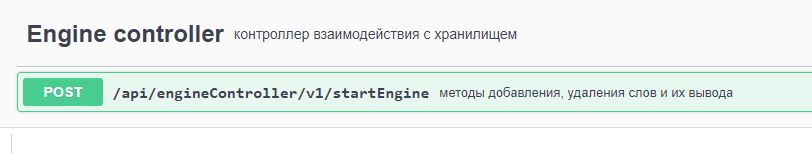
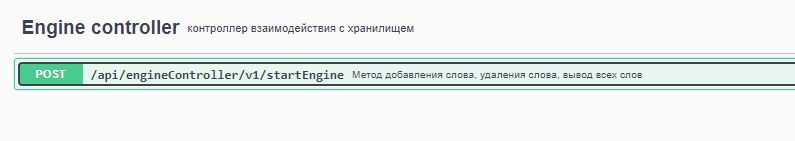
refactoring

Changed region(s): [[0.0, 0.3688, 1.0, 0.7376], [0.0302, 0.1418, 0.634, 0.3121], [0.0, 0.8227, 1.0, 0.8511]]

diff --git a/Glossary/src/main/java/com/zvezdilin/Glossary/api/EngineController.java b/Glossary/src/main/java/com/zvezdilin/Glossary/api/EngineController.java
@@ -2,7 +2,10 @@ package com.zvezdilin.Glossary.api;
 
 import com.zvezdilin.Glossary.engine.Engine;
 import io.swagger.v3.oas.annotations.Operation;
+import io.swagger.v3.oas.annotations.Parameter;
+import io.swagger.v3.oas.annotations.media.Schema;
 import io.swagger.v3.oas.annotations.tags.Tag;
+
 import org.springframework.web.bind.annotation.*;
 
 @Tag(name = "Engine controller", description = "контроллер взаимодействия с хранилищем")
@@ -17,13 +20,17 @@ public class EngineController {
     }
 
     @Operation(
-            summary = "метод добавления, удаления слов и их вывода в режиме одного окна"
+            summary = "Метод добавления слова, удаления слова, вывод всех слов "
     )
     @PostMapping("startEngine")
-    public String startEngine(@RequestBody String requestFromClientInJson) {
+    public String startEngine(@Parameter(description = "ADD - добавление слова, REMOVE - удаление слова, GETALLTASKS - вывод всех слов",
+            required=true, schema=@Schema(allowableValues={ "{\"target\":\"ADD\",\"word\":\"test\",\"translation\":\"тестовое слово для проверки\",\"locale\":\"EN\"}",
+            "{\"target\":\"REMOVE\",\"word\":\"test\"}", "{\"target\":\"GETALLTASKS\"}" })) @RequestBody String requestFromClientInJson) {
         String result = "";
         result = engine.start(requestFromClientInJson);
         myLogger.appendInfo("Attempt to start engine. Result: " + result);
         return result;
     }
 }
+
+

diff --git a/README.md b/README.md
@@ -1,4 +1,68 @@
 ## Добро пожаловать в репозиторий RESP-API - приложения "Glossary"
+Glossary
+- API version: 0.0.1
+  - Build date: 2022-07-21T12:56:34.978Z[GMT]
+
+  For more information, please visit [https://github.com/Witcher26](https://github.com/Witcher26)
+
+
+## Requirements
+
+Building the API client library requires:
+1. Java 1.7+
+2. Maven
+
+## Installation
+
+### Maven users
+
+Add this dependency to your project's POM:
+
+```xml
+<dependency>
+  <groupId>io.swagger</groupId>
+  <artifactId>swagger-java-client</artifactId>
+  <version>1.0.0</version>
+  <scope>compile</scope>
+</dependency>
+```
+Then manually install the following JARs:
+
+* `target/swagger-java-client-1.0.0.jar`
+* `target/lib/*.jar`
+
+## Documentation for API Endpoints
+
+All URIs are relative to *http://localhost:8080/api*
+
+Class | Method | HTTP request | Description
+------------ | ------------- | ------------- | -------------
+*AdminControllerApi* | [**createDataBase**](docs/AdminControllerApi.md#createDataBase) | **POST** /adminController/v1/createDataBase | создание базы данных
+*AdminControllerApi* | [**deleteDataBase**](docs/AdminControllerApi.md#deleteDataBase) | **DELETE** /adminController/v1/deleteDataBase | удаление базы данных
+*AdminControllerApi* | [**getIsDatabaseInfo**](docs/AdminControllerApi.md#getIsDatabaseInfo) | **GET** /adminController/v1/getIsDatabaseInfo | получение информации о текущей базе данных
+*AdminControllerApi* | [**getLoggerInfo**](docs/AdminControllerApi.md#getLoggerInfo) | **GET** /adminController/v1/getLoggerInfo | логгер
+*AdminControllerApi* | [**swichDataBase**](docs/AdminControllerApi.md#swichDataBase) | **POST** /adminController/v1/switchDataBase/{isDataBase} | переключение баз данных
+*DatabaseControllerApi* | [**readDatabase**](docs/DatabaseControllerApi.md#readDatabase) | **GET** /databaseController/v1/database/read | Ммтод чтения данных из базы данных
+*DatabaseControllerApi* | [**updateDatabase**](docs/DatabaseControllerApi.md#updateDatabase) | **PUT** /databaseController/v1/database/update | метод обнолвения базы данных
+*EngineControllerApi* | [**engine**](docs/EngineControllerApi.md#engine) | **POST** /engineController/v1/startEngine/{requestFromClientInJson} | метод добавления слова, удаления слова, вывод всех слов
+
+## Documentation for Models
+
+ - [ErrorDataBase](docs/ErrorDataBase.md)
+ - [SuccessDataBase](docs/SuccessDataBase.md)
+ - [SuccessDeletedDataBase](docs/SuccessDeletedDataBase.md)
+ - [SuccessSwitchDataBase](docs/SuccessSwitchDataBase.md)
+
+## Documentation for Authorization
+
+All endpoints do not require authorization.
+Authentication schemes defined for the API:
+
+
+
+## Author
+
+1816178@mail.ru
 
 ***
 Для того, чтобы начать пользоваться данным REST-API, необходимо проделать следующие шаги:
@@ -44,5 +108,3 @@ http://localhost:8080/swagger-ui/index.html
 **Пример интерактивного окна метода из группы контролера Admin**
 
 ![](img/7_example.JPG)
-
-На указанном красной стрелкой терминале выводится сообщение об удачном переключении базы данных
